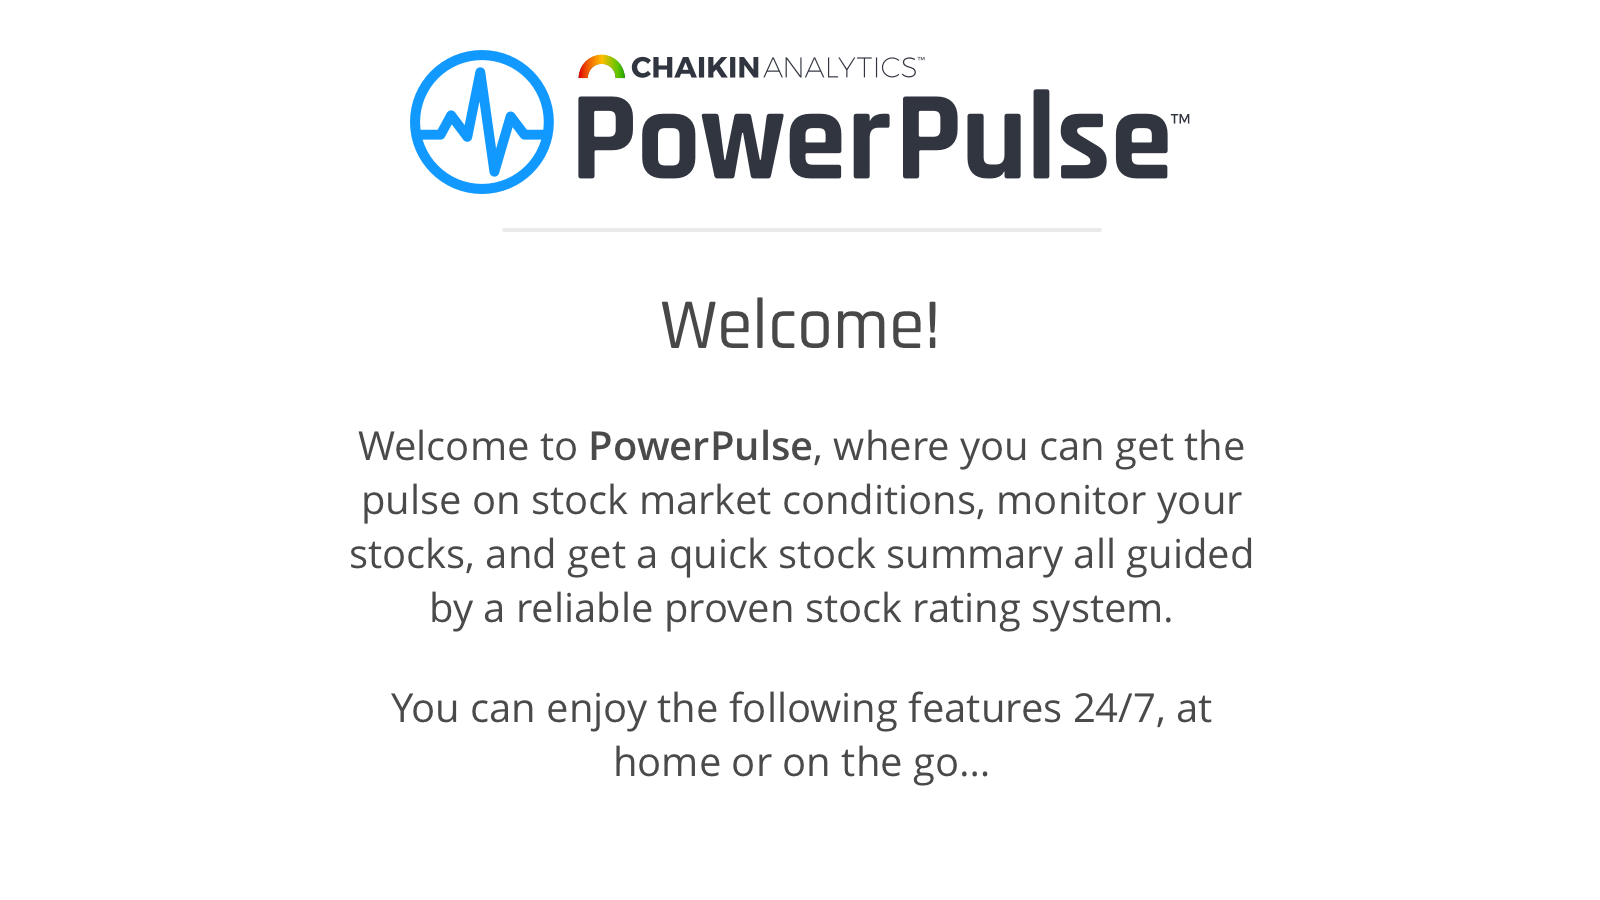
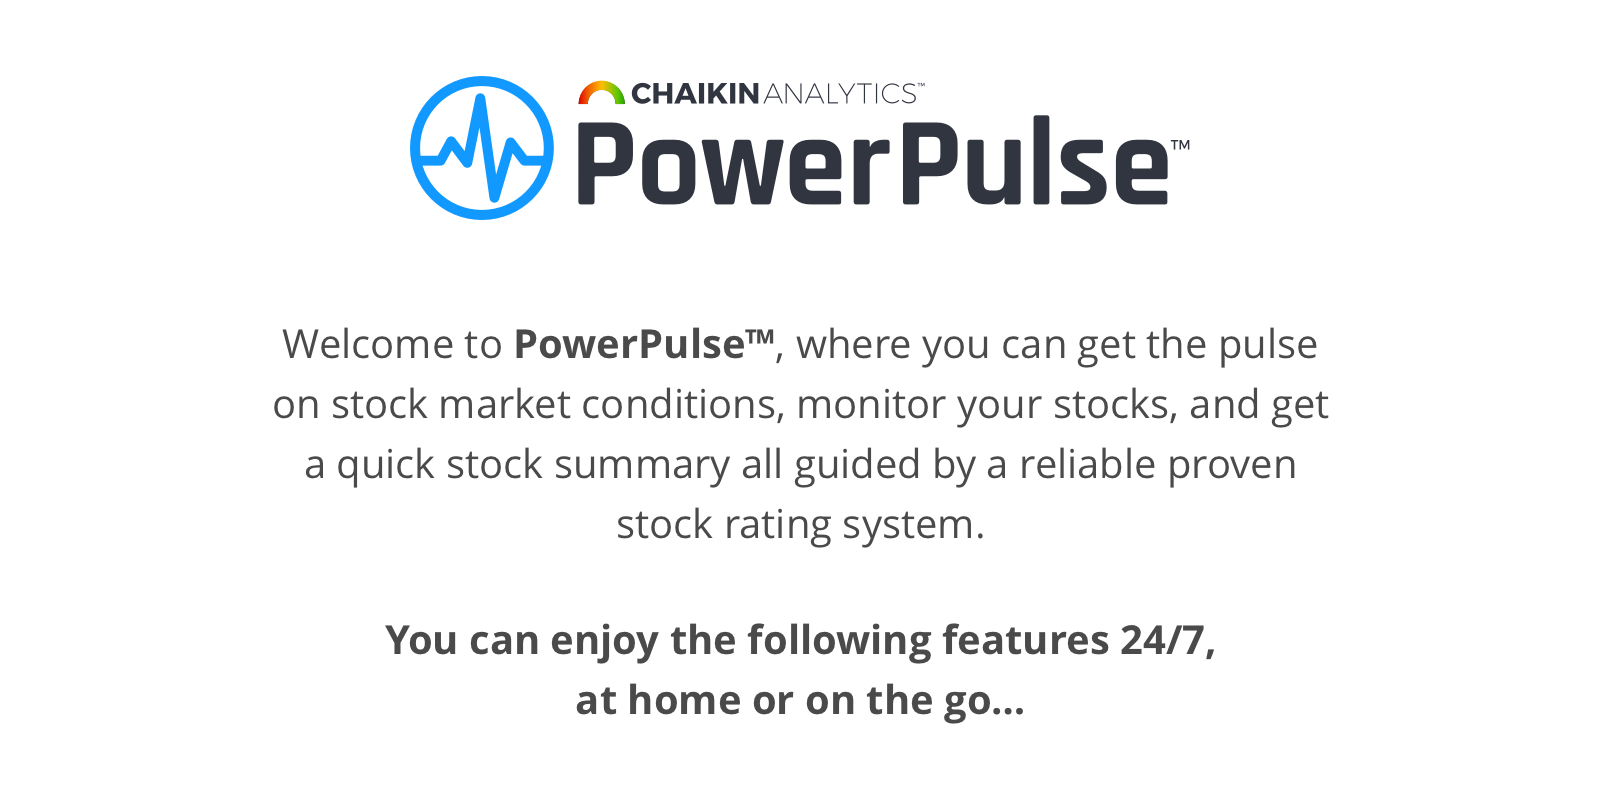
merged

Changed region(s): [[0.1562, 0.3438, 0.8438, 0.7188], [0.25, 0.0312, 0.75, 0.2812], [0.2188, 0.75, 0.75, 0.9062]]

diff --git a/src/app/psp/app.component.scss b/src/app/psp/app.component.scss
@@ -1030,28 +1030,36 @@ sub {
 
 /*         ONBOARDING MODAL            */
 
+
+.modal-backdrop.show {
+    opacity: 0.75;
+}
+
 .modal-dialog {
   width:100%;
 
   @media screen AND (min-width: 768px) {
+    width: 800px;
     max-width: 800px;
     margin: 30px auto;
-    height: 630px;
+    height: 600px;
   }
   @media screen AND (max-width: 767px) {
-    width: 100%;
+/*    width: 100%;
     min-width: 350px;
     margin: 0px;
-    height:100vh;
+    height:100vh;*/
   }
 }
 .modal {
 
   .modal-content {
+    width: 800px;
+    height: 600px;
     background-color: #fff;
     border: 0px solid rgba(0, 0, 0, 0.2);
-    border-radius: 15px;
-    box-shadow: 0px 0px 30px rgba(0,0,0,0.5);
+    border-radius: 8px;
+    box-shadow: 0px 0px 30px rgba(0,0,0,0.66);
     overflow: hidden;
 
     @media screen AND (max-width: 767px) {
@@ -1060,41 +1068,48 @@ sub {
     }
 
     .modal-header {
-      padding: 10px 15px;
+      padding: 6px 15px;
       border-bottom: 0px solid #e9ecef;
       text-align: center;
-      background-color: #FFFFFF;
+      color:#ffffff;
+      background: $gradient--pulse-blue;
 
       @media screen AND (max-width: 767px) {
-        background-color: #333;
+        //background-color: #333;
       }
 
       .modal-title {
         text-align: center;
         margin: 0;
-        color:$font-color--mid;
+        color:#ffffff;
 
         @media screen AND (max-width: 767px) {
           color:#ffffff;
         }
       }
-      i {
-        color:$font-color--mid;
-        
-        @media screen AND (max-width: 767px) {
+      .close {
+        opacity: 1;
+
+        i {
           color:#ffffff;
+          text-shadow: none;
         }
       }
     }
 
     .modal-body {
-        padding: 0 15px 15px;
+        padding: 0 10px 15px;
         text-align: center;
 
         img {
           width: 100%;
         }
-
+        .slide-title {
+          color: $link-blue;
+          font-size: 32px;
+          font-weight: 500;
+          margin:10px 0 0;
+        }
         .link__watch-video {
           font-size: 18px;
           font-weight: 600;
@@ -1105,14 +1120,19 @@ sub {
     }
 
     .modal-footer {
-      padding:  20px 15px 10px;
-      height: 60px;
-      border-top: 0px solid #e9ecef;
+      padding: 0;
+      height: 50px;
+      border-top: 1px solid #ddd;
       position: absolute;
       bottom: 0;
+      margin: 0 auto;
+      width: 100%;
+      background-color: #efefef;
 
       .pagination {
         border-radius: 0;
+        width: 400px;
+        margin: 0 auto;
 
         .page-item {
           color: $font-color--mid;
@@ -1125,6 +1145,7 @@ sub {
             border: 0px solid $link-blue;
             border-radius: 30px;
             font-weight: 600;
+            background-color: #efefef;
 
             &:hover {
               background-color: #FFFFFF;
@@ -1144,7 +1165,7 @@ sub {
         }
         .disabled {
           .page-link {
-            color: #ffffff !important;
+            color: #efefef !important;
           }
         }
         .pagination-prev {

diff --git a/src/app/psp/core/psp-onboarding/psp-onboarding.component.ts b/src/app/psp/core/psp-onboarding/psp-onboarding.component.ts
@@ -6,7 +6,7 @@ import {BsModalRef} from 'ngx-bootstrap';
   template: `
     <div class="modal-header row">
       <div class="col-2"></div>
-      <div class=" col-8"><h4 class="modal-title">Welcome to PowerPulse</h4></div>
+      <div class=" col-8"><h4 class="modal-title">Getting Started With PowerPulse</h4></div>
       <div class="col-2">
         <button type="button" class="close" aria-label="Close" (click)="bsModalRef.hide()">
           <span aria-hidden="true"><i class="far fa-times-circle"></i></span>
@@ -17,6 +17,7 @@ import {BsModalRef} from 'ngx-bootstrap';
       <div *ngIf="items.length">
         <ng-container *ngFor="let item of items">
           <ng-container *ngIf="currentPage === item.id">
+            <p class="slide-title">{{ item.title }}</p>
             <img class="desktop hidden-sm-down" src="{{ item.src }}">
             <img class="mobile hidden-sm-up" *ngIf="item.mobileSrc" src="{{ item.mobileSrc }}">
             <a class="link__watch-video" target="_blank" *ngIf="item.link" href="{{ item.link }}"><i class="far fa-play-circle"></i> &nbsp; WATCH THE VIDEO</a>
@@ -42,29 +43,34 @@ export class PspOnboardingComponent implements OnInit {
   items: Array<object> = [
     {
       id: 1,
+      title: 'Welcome!',
       src: 'assets/imgs/img_onboard-screen1.png',
       mobileSrc: 'assets/imgs/img_onboard-screen1--mobile.png'
     },
     {
       id: 2,
+      title: 'The Rating System',
       src: 'assets/imgs/img_onboard-screen2.png',
       mobileSrc: 'assets/imgs/img_onboard-screen2--mobile.png',
-      link: 'https://www.chaikinanalytics.com/chaikin-powerpulse-user-guide/'
+      link: 'https://www.chaikinanalytics.com/chaikin-powerpulse-user-guide/#the-workspace-2_wrap'
     },
     {
       id: 3,
+      title: 'Health Check',
       src: 'assets/imgs/img_onboard-screen3.png',
       mobileSrc: 'assets/imgs/img_onboard-screen3--mobile.png',
       link: 'https://www.chaikinanalytics.com/powerpulse-health-check-video/'
     },
     {
       id: 4,
+      title: 'Stock Analysis',
       src: 'assets/imgs/img_onboard-screen4.png',
       mobileSrc: 'assets/imgs/img_onboard-screen4--mobile.png',
       link: 'https://www.chaikinanalytics.com/powerpulse-stock-analysis/'
     },
     {
       id: 5,
+      title: 'Market Insights',
       src: 'assets/imgs/img_onboard-screen5.png',
       mobileSrc: 'assets/imgs/img_onboard-screen5--mobile.png',
     },

diff --git a/src/app/psp/containers/my-stocks/stock-report/stock-report.component.ts b/src/app/psp/containers/my-stocks/stock-report/stock-report.component.ts
@@ -222,24 +222,24 @@ declare var gtag: Function;
               </p>
             </div>
             <div (click)="toggleChartTime('1W')" class="col-2">
-              <p class="date-select" [ngClass]="{'selected': current == '1W' }"><span class="hidden-lg-up">1W</span><span class="hidden-md-down">1 Week</span></p>
+              <p class="date-select" [ngClass]="{'selected': current == '1W' }">1W</p>
             </div>
             <div (click)="toggleChartTime('1M')" class="col-2">
-              <p class="date-select" [ngClass]="{'selected': current == '1M' }"><span class="hidden-lg-up">1M</span><span class="hidden-md-down">1 Month</span></p>
+              <p class="date-select" [ngClass]="{'selected': current == '1M' }">1M</p>
             </div>
             <div (click)="toggleChartTime('6M')" class="col-2">
-              <p class="date-select" [ngClass]="{'selected': current == '6M' }"><span class="hidden-lg-up">6M</span><span class="hidden-md-down">6 Months</span></p>
+              <p class="date-select" [ngClass]="{'selected': current == '6M' }">6M</p>
             </div>
             <div (click)="toggleChartTime('1Y')" class="col-2">
-              <p class="date-select" [ngClass]="{'selected': current == '1Y' }"><span class="hidden-lg-up">1Y</span><span class="hidden-md-down">1 Year</span></p>
+              <p class="date-select" [ngClass]="{'selected': current == '1Y' }">1Y</p>
             </div>
             <div (click)="getFiveYearChart()" class="col-2">
-              <p class="date-select" [ngClass]="{'selected': current == '5Y' }"><span class="hidden-lg-up">5Y</span><span class="hidden-md-down">5 Years</span></p>
+              <p class="date-select" [ngClass]="{'selected': current == '5Y' }">5Y</p>
             </div>
           </div>
 
           <!-- STOCK VIEW MAIN CHART -->
-          <div class="row stock-info stock-info--chart">
+          <div class="row stock-info stock-info--chart" style="position:relative">
             <div class="col-12 main-chart">
               <span *ngIf="loading"><mat-spinner></mat-spinner></span>
               <cpt-zingchart [chart]="mainChart"></cpt-zingchart>

diff --git a/src/app/psp/containers/my-stocks/my-stocks-list/my-stocks-list.component.ts b/src/app/psp/containers/my-stocks/my-stocks-list/my-stocks-list.component.ts
@@ -53,7 +53,7 @@ declare var gtag: Function;
 
     <div class="row justify-content-center no-gutters col-headers">
       <div [ngClass]="{'sorted': orderByObject['field'] === 'PGR'}" (click)="toggleOrderByObject('PGR', $event)" class="col-2">
-        <p class="col--pgr">PGR</p>
+        <p class="col--pgr">RTG</p>
       </div>
       <div [ngClass]="{'sorted': orderByObject['field'] === 'symbol'}" (click)="toggleOrderByObject('symbol', $event)" class="col-3 text-left" style="padding-left:0;">
         <p>TICKER</p>
